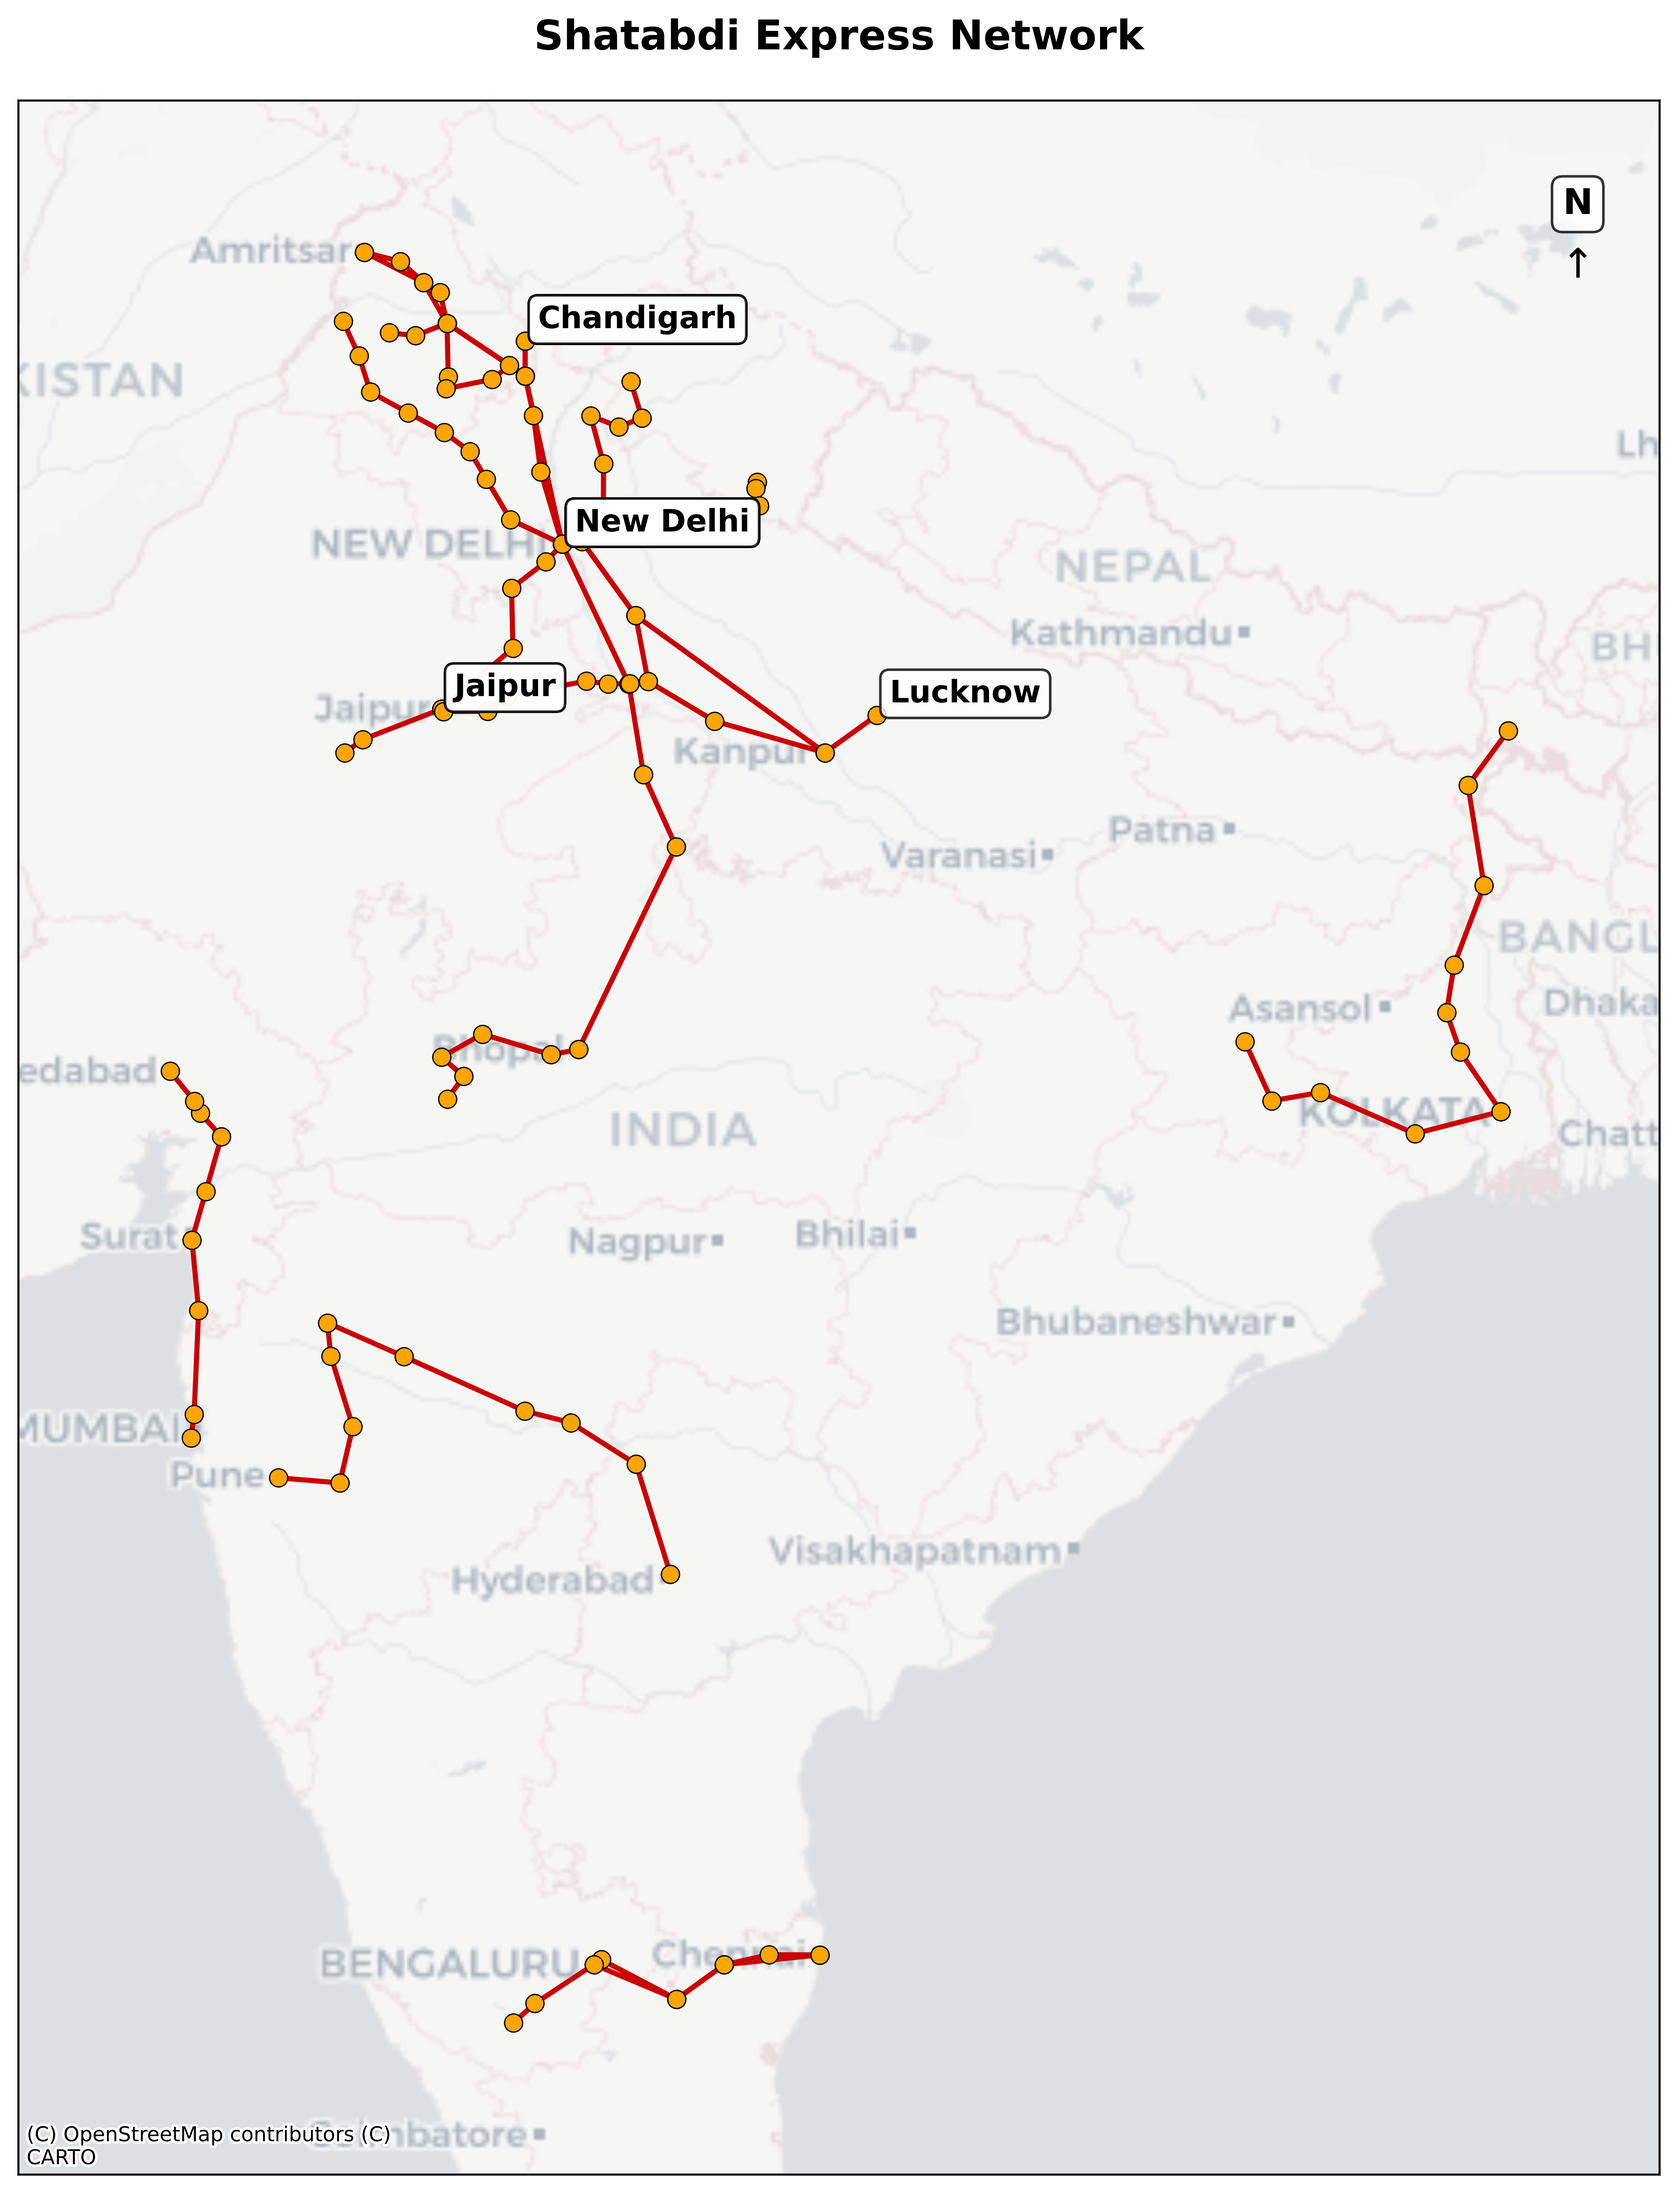
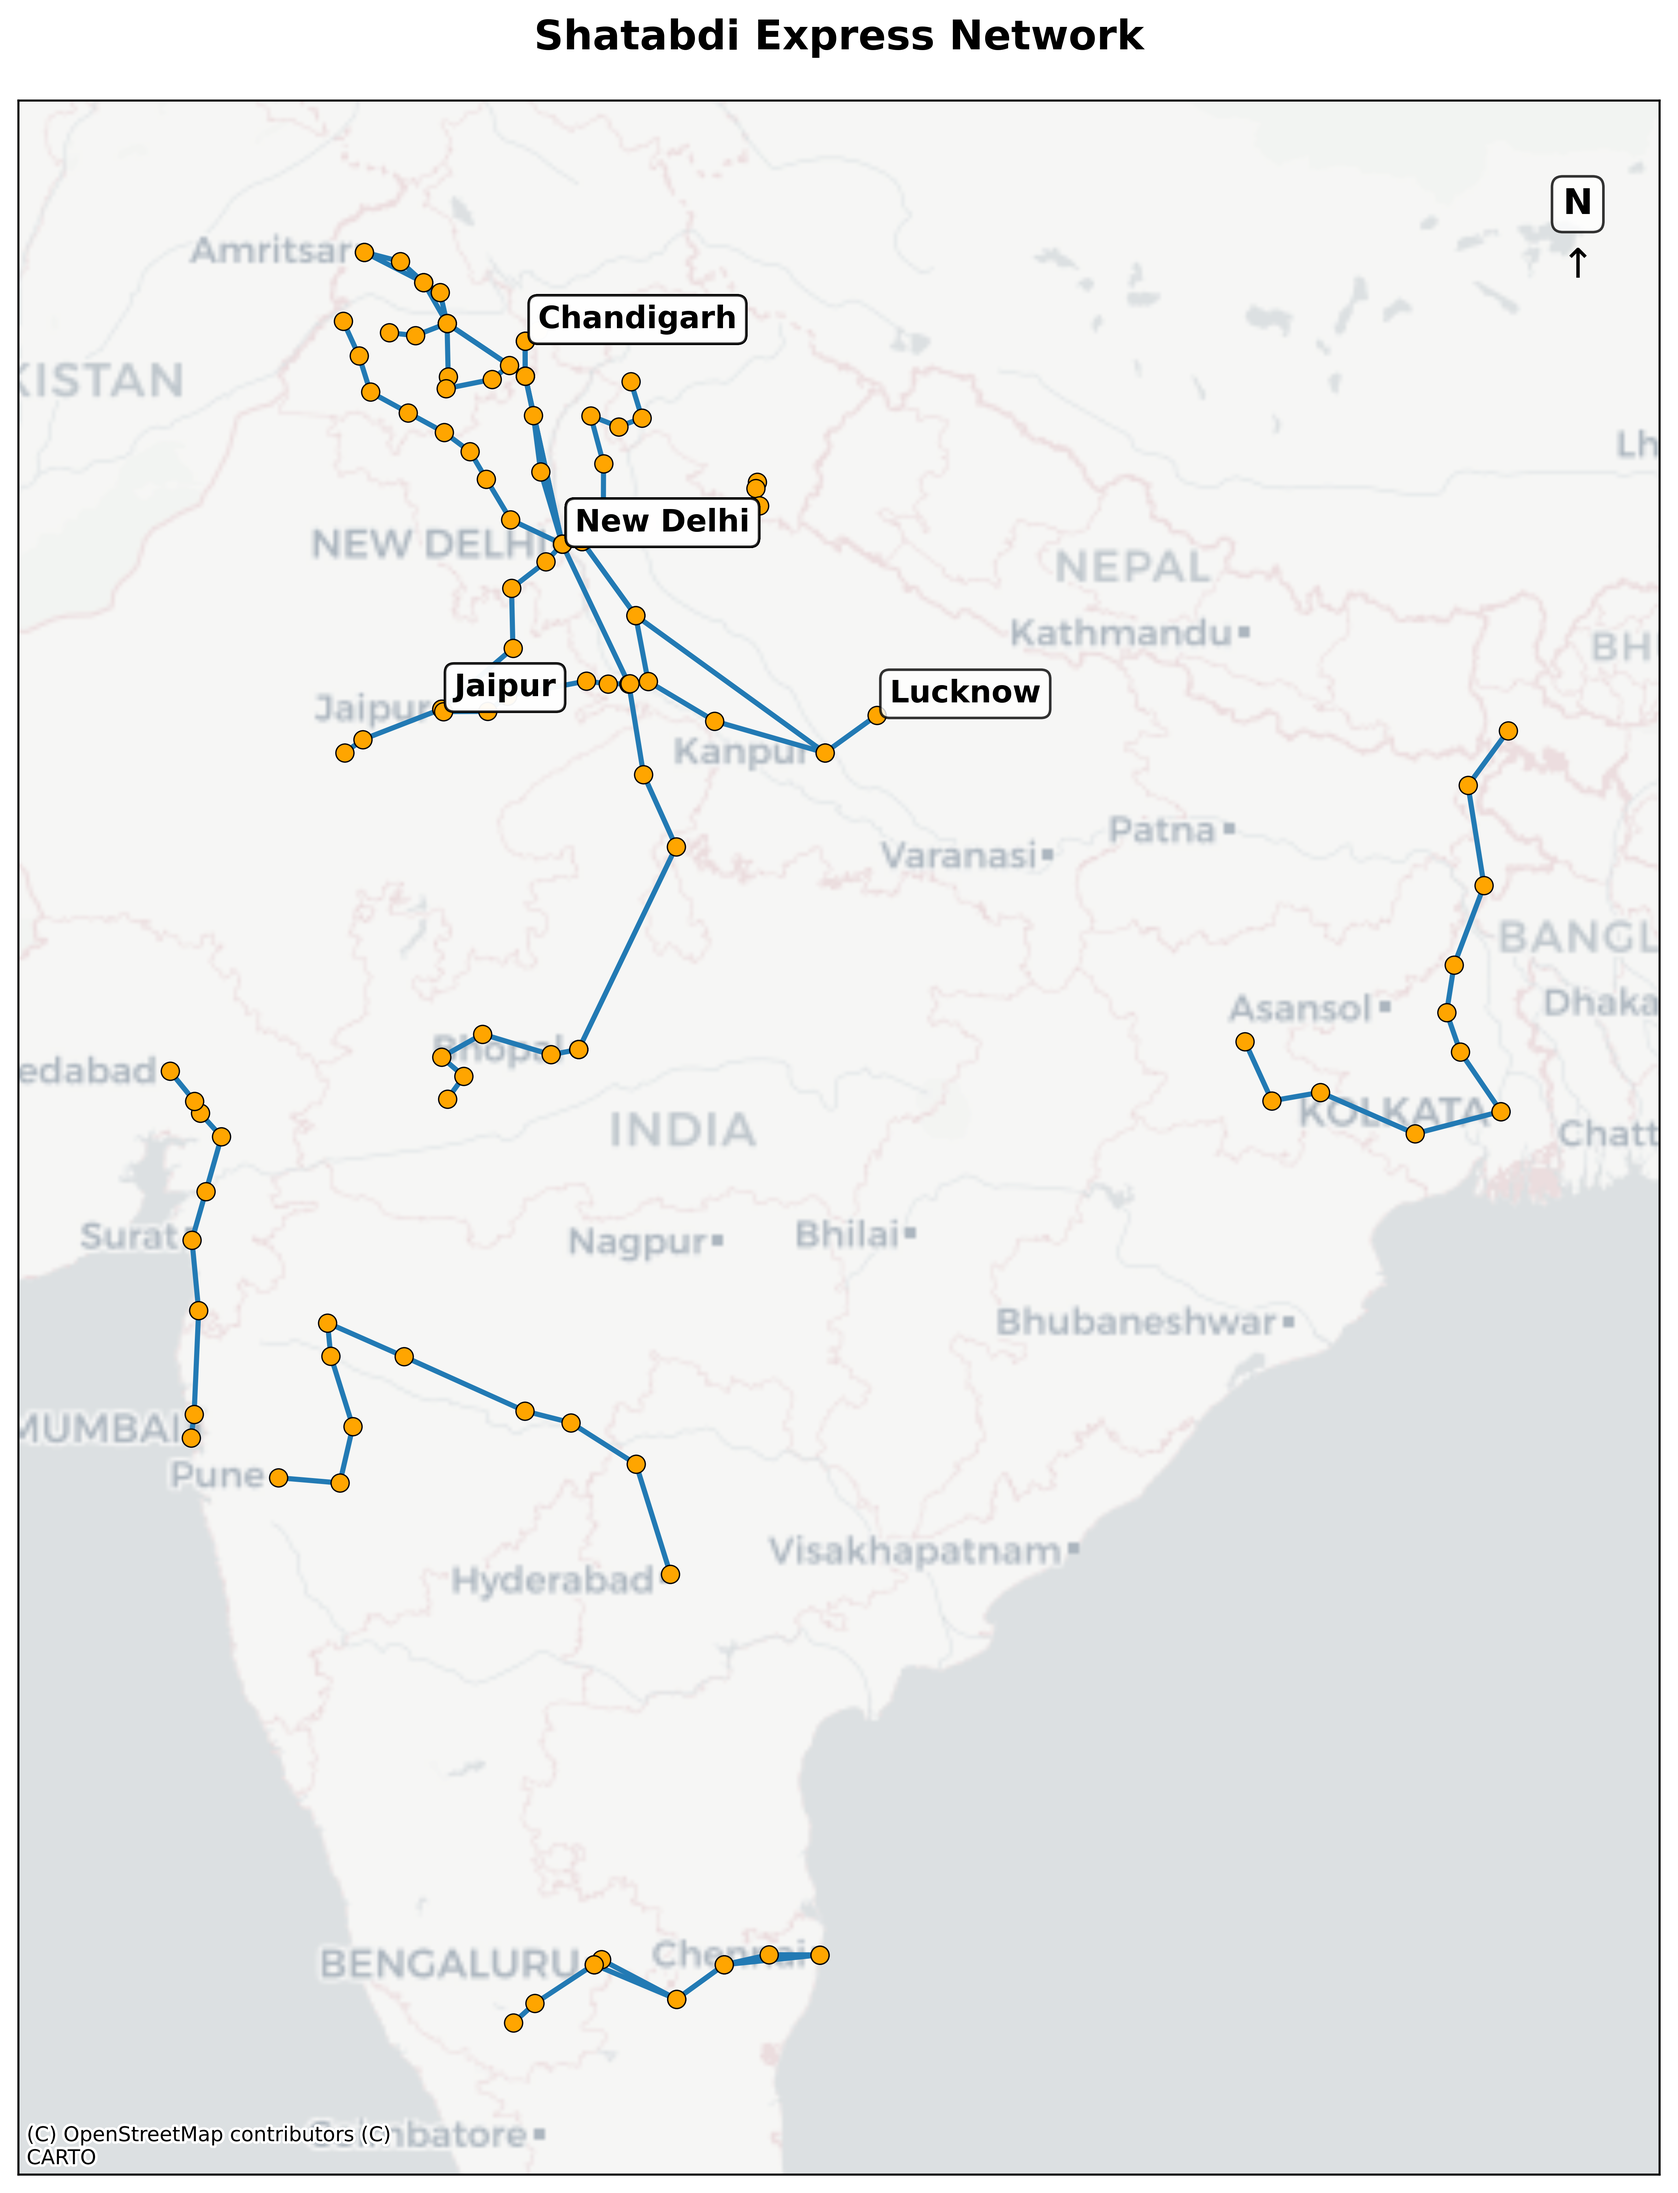
Modified color of Shatabdi Express

diff --git a/src/Shatabdi_Network.py b/src/Shatabdi_Network.py
@@ -18,7 +18,7 @@ import os
 map_specs = {
     #"map_title": "Shatabdi Express Network",
     "map_title": "Jan Shatabdi Express Network",
-    "current_route_color": "#CC0000",    
+    "current_route_color": "#227AB4",    
     "route_line_width": 2,
     "station_marker_color": "#FFA500",
     "station_marker_size": 50,
@@ -31,6 +31,7 @@ map_specs = {
         "grid_lines": False
     },
     "output_file_name": "../media/Jan_Shatabdi_exp_routes_map.png",
+    #"output_file_name": "../media/Shatabdi_exp_routes_map.png",    
     "output_dpi": 500
 }
 filename = '../data/Shatabdi_route_data.json'
